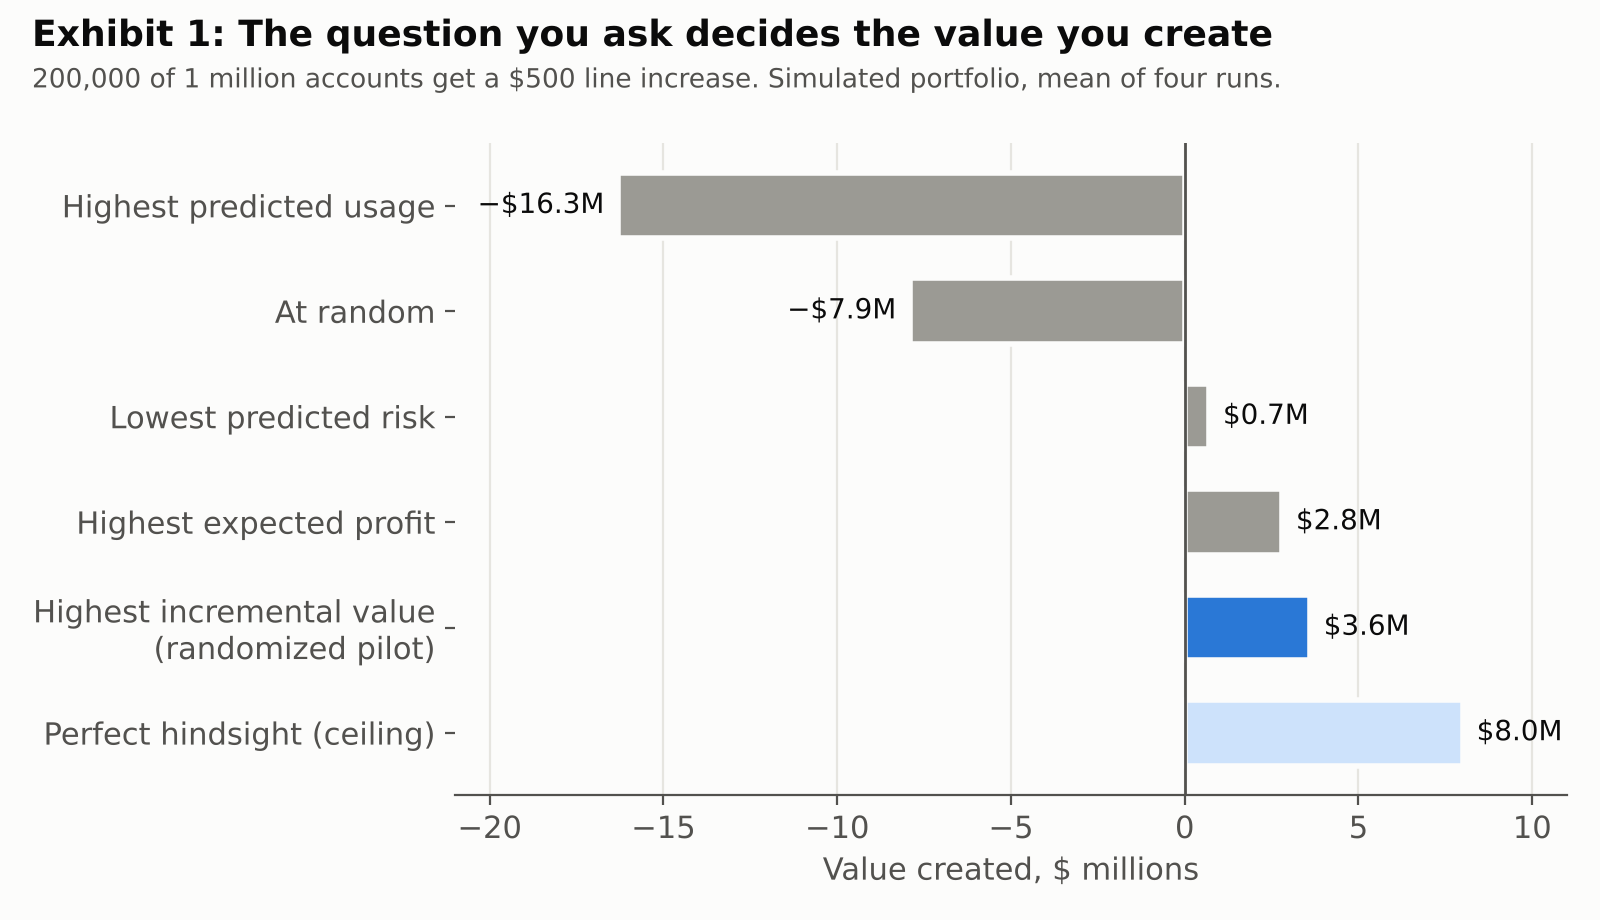
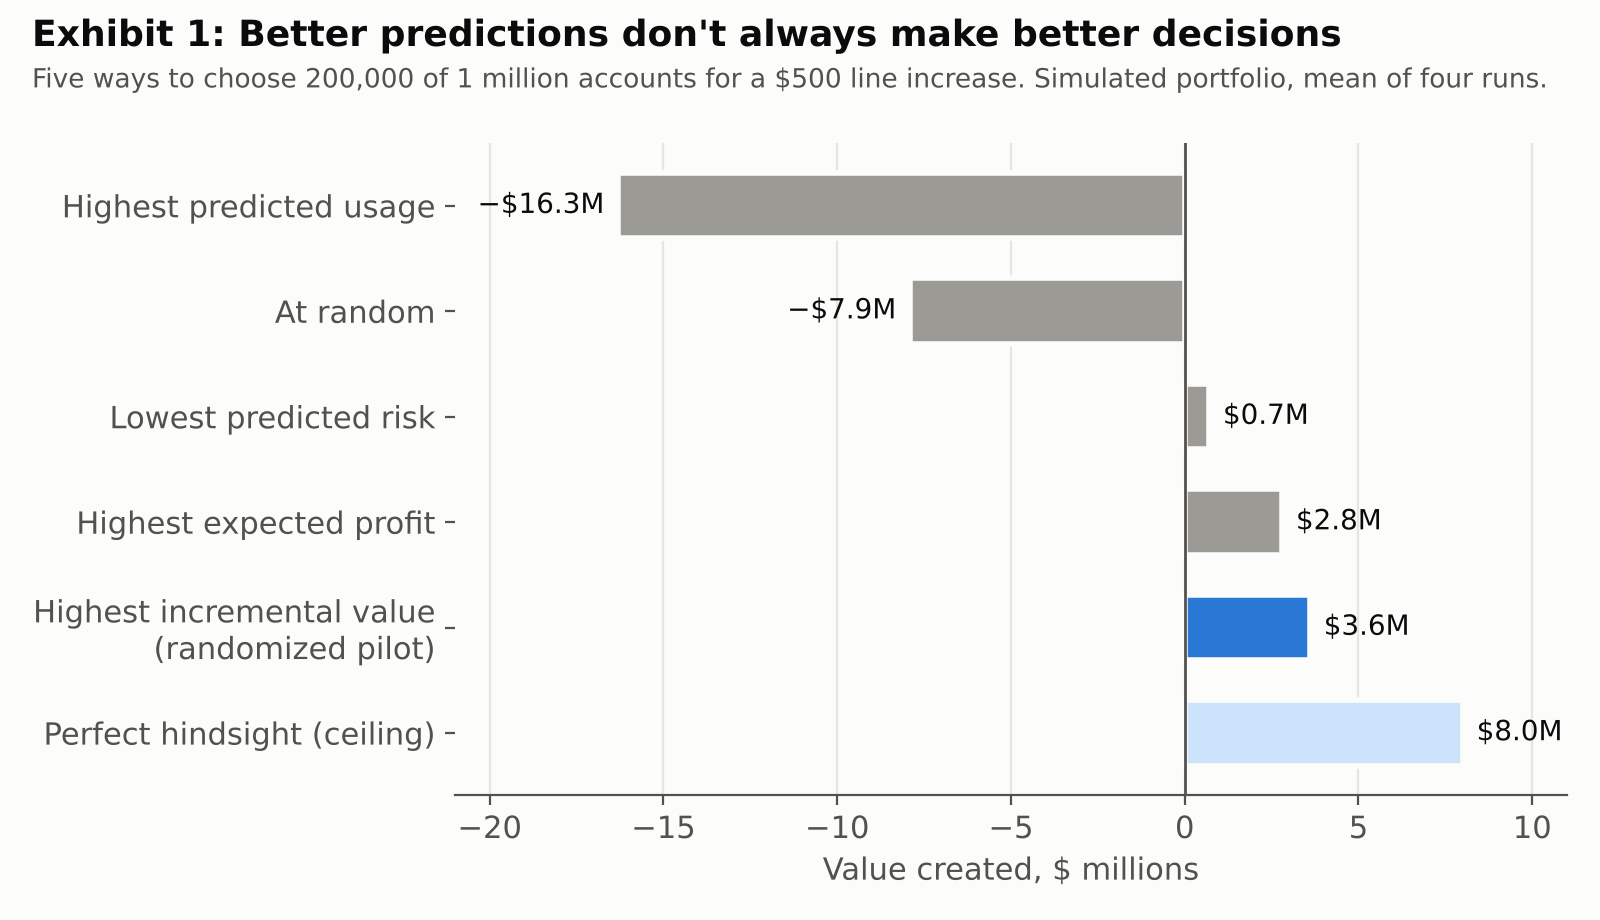
Retitle exhibits and document constrained-policy results in README
Exhibits now carry the titles proposed in editorial review. README adds
a table for the borrower-protection caps, notes that the 3-point cap
wins on average (three of four runs), that stricter caps treat fewer
accounts, and that the downturn-not-trained scenario lost money in one run.

Claude-Session: https://claude.ai/code/session_01NF5hgnheqet83vL4WxSqsy

Changed region(s): [[0.0, 0.0, 0.9688, 0.1217]]

diff --git a/README.md b/README.md
@@ -47,7 +47,21 @@ These are retrospective reanalyses of real randomized tests. Neither company dep
 | Highest predicted incremental value | Yes (60,000-account pilot, one-time cost $1.2M) | $3.6M |
 | Perfect hindsight (ceiling) | — | $8.0M |
 
-The incremental-value policy beat the expected-profit rule in all 44 runs. Capping each customer's predicted increase in default probability at 3 percentage points still created $3.0M with about 1,800 additional defaults, against $2.8M and about 3,900 for the expected-profit rule (`constrained_results.json`). The gap is modest in normal conditions (+$0.9M) and large when the increase itself makes customers riskier or the economy weakens (+$2.4M to +$3.8M), because the expected-profit rule assumes an increase does not change default risk. Full results by scenario are in `results_v2.json`.
+The incremental-value policy beat the expected-profit rule in all 44 runs. The gap is modest in normal conditions (+$0.9M) and large when the increase itself makes customers riskier or the economy weakens (+$2.4M to +$3.8M), because the expected-profit rule assumes an increase does not change default risk. Full results by scenario are in `results_v2.json`. In the scenario where models built in good times are used in a downturn, the incremental-value policy averaged +$0.2M and lost money in one of four runs.
+
+**Borrower-protection caps (`constrained.py`, base case, mean of four runs).** The incremental-value policy is rerun with a cap on each customer's *predicted* increase in default probability, learned from the same pilot. The cap applies to predictions, so it does not guarantee that every selected borrower's true risk increase stays below it.
+
+| Policy | Accounts treated | Value | Additional defaults (expected) |
+|---|---|---|---|
+| Expected-profit rule | 200,000 | $2.8M | ~3,900 |
+| Incremental value, no cap | 200,000 | $3.6M | ~2,300 |
+| Incremental value, 3-point cap | ~198,000 | $3.0M | ~1,800 |
+| Incremental value, 1-point cap | ~133,000 | $1.7M | ~1,100 |
+| Lowest predicted risk | 200,000 | $0.7M | ~530 |
+
+The 3-point cap beats the expected-profit rule on average and in three of four runs. Stricter caps also reduce the number of eligible accounts, so part of the lower total value reflects fewer line increases, not only a different mix of customers.
+
+
 
 **Limits.** The simulation tests one decision, not a customer lifecycle. Its parameters are typical of a U.S. near-prime card portfolio and are not drawn from any company's data. It shows a mechanism, not the size of the gain in any real portfolio.
 
